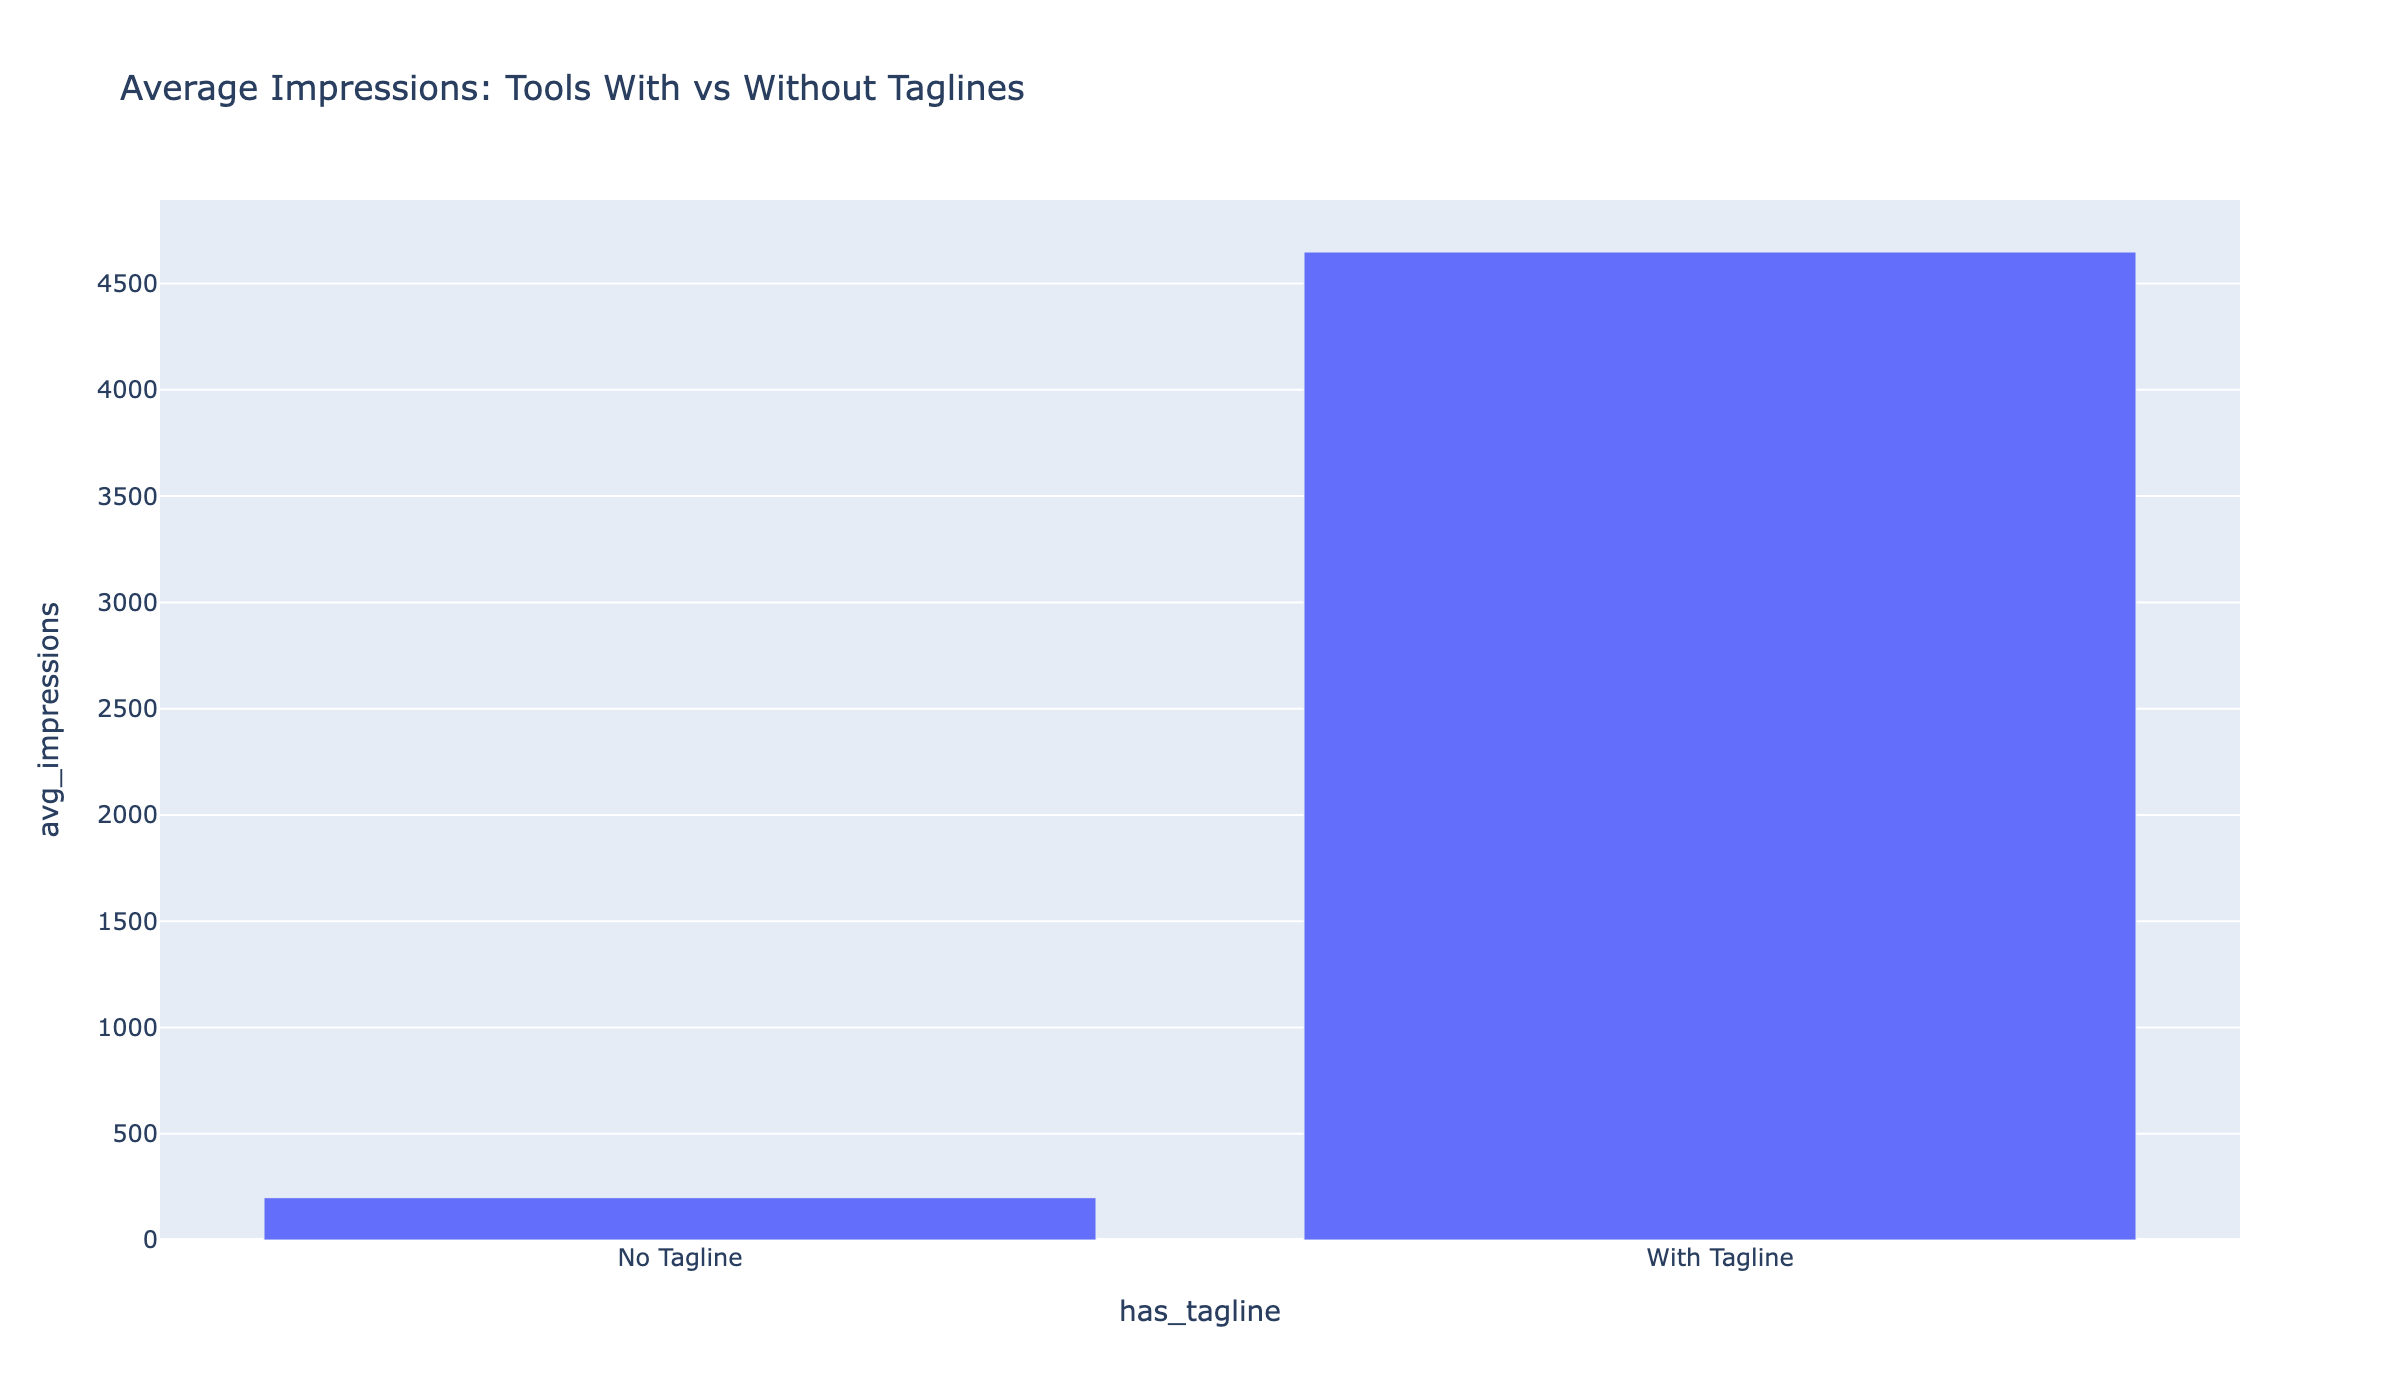
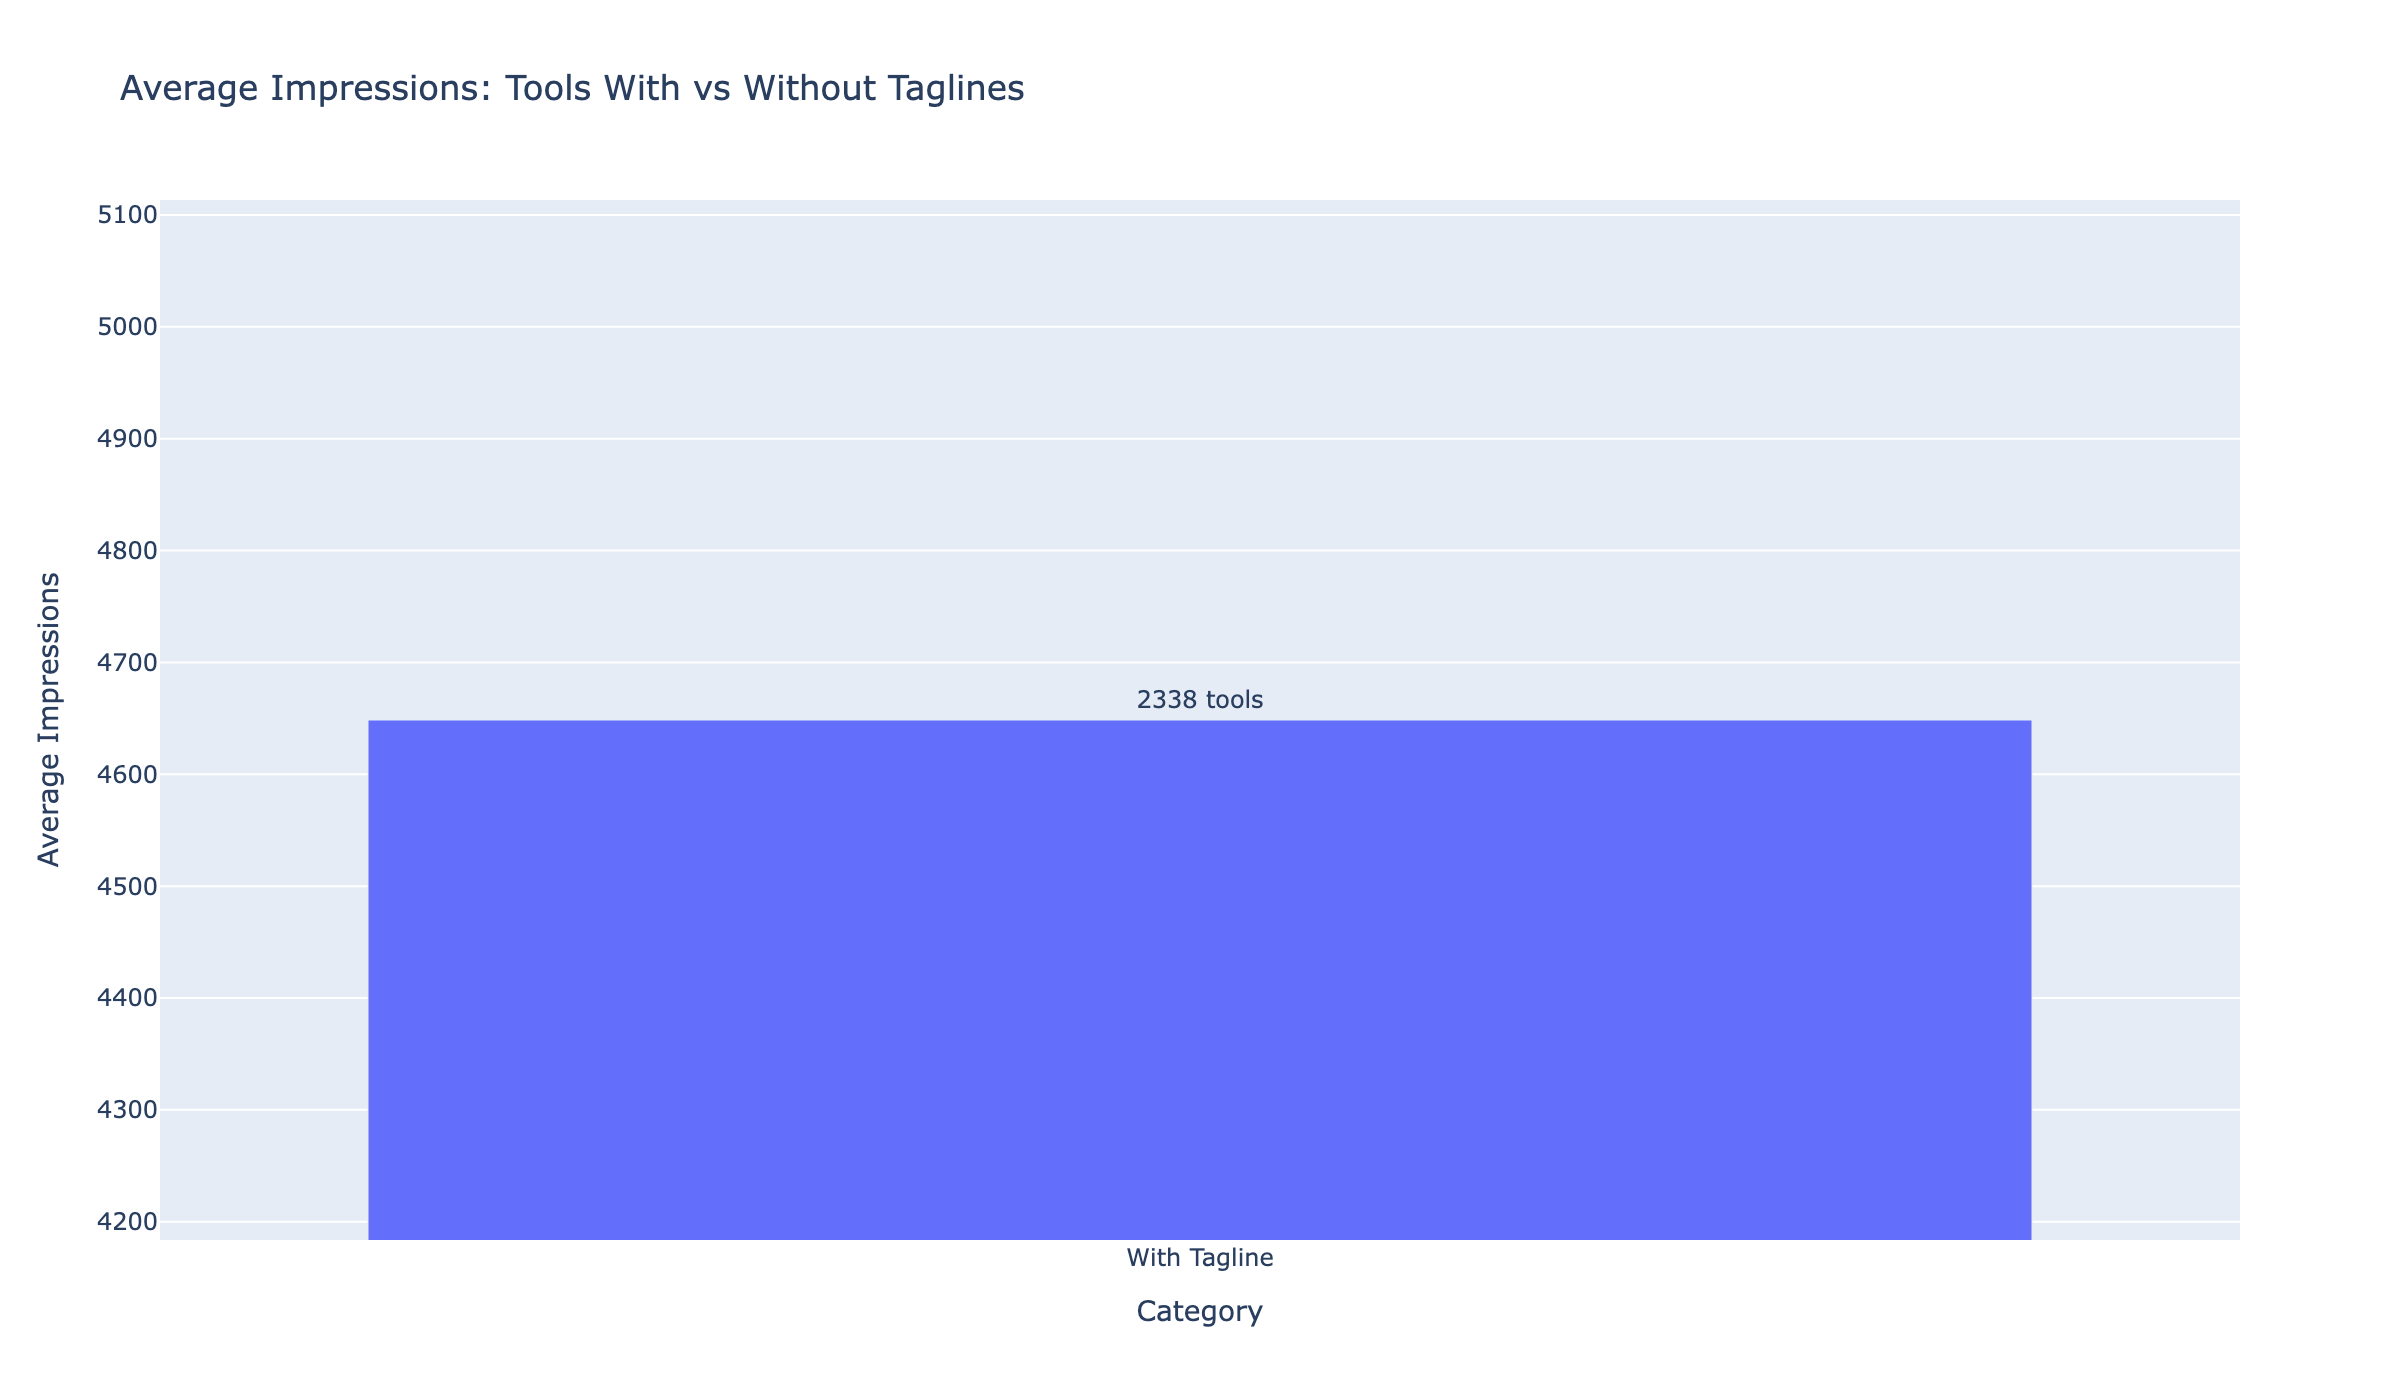
Fix empty charts: add meaningful data validation and alternative visualizations for comparison charts

diff --git a/listyourtool-analysis/analyze_listyourtool.py b/listyourtool-analysis/analyze_listyourtool.py
@@ -63,19 +63,31 @@ if not df.empty and len(df) > 0:
 else:
     print("Skipping chart 05: Insufficient word data")
 
-# 6. Upvotes vs category correlation
+# 6. Category distribution (showing what categories exist)
 df = con.execute("""
-SELECT category, AVG(upvotes) as avg_upvotes, COUNT(*) as count
+SELECT category, COUNT(*) as count
 FROM tools 
-WHERE category != 'Unknown'
+WHERE category IS NOT NULL AND category != ''
 GROUP BY category 
-HAVING COUNT(*) >= 10
-ORDER BY avg_upvotes DESC
+ORDER BY count DESC
 LIMIT 20
 """).df()
-fig = px.bar(df, x='category', y='avg_upvotes', title="Average Upvotes by Category (Categories with 10+ tools)")
-fig.update_xaxes(tickangle=45)
-save(fig, "06_upvotes_by_category")
+if not df.empty and len(df) > 0:
+    fig = px.bar(df, x='category', y='count', 
+                 title="Tool Distribution by Category",
+                 text='count', labels={'count': 'Number of Tools', 'category': 'Category'})
+    fig.update_traces(texttemplate='%{text}', textposition='outside')
+    fig.update_xaxes(tickangle=45)
+    fig.update_layout(yaxis_title="Number of Tools")
+    save(fig, "06_upvotes_by_category")
+else:
+    # Fallback: Show category breakdown even if limited
+    df = con.execute("SELECT category, COUNT(*) as count FROM tools GROUP BY category ORDER BY count DESC LIMIT 10").df()
+    if not df.empty:
+        fig = px.pie(df, names='category', values='count', title="Category Distribution")
+        save(fig, "06_upvotes_by_category")
+    else:
+        print("Skipping chart 06: No category data")
 
 # 7. Maker repeat offenders
 df = con.execute("""
@@ -91,20 +103,26 @@ fig = px.bar(df, x='maker', y='tool_count', title="Top 20 Makers by Number of To
 fig.update_xaxes(tickangle=45)
 save(fig, "07_maker_repeat_offenders")
 
-# 8. "ChatGPT" in name correlation
+# 8. "ChatGPT" in name correlation - show distribution instead
 df = con.execute("""
 SELECT 
     CASE 
-        WHEN LOWER(title) LIKE '%chatgpt%' OR LOWER(title) LIKE '%gpt%' THEN 'Has GPT/ChatGPT'
+        WHEN LOWER(title) LIKE '%chatgpt%' OR LOWER(title) LIKE '%gpt%' OR LOWER(title) LIKE '%gpt-%' THEN 'Has GPT/ChatGPT'
         ELSE 'No GPT mention'
     END as has_gpt,
-    AVG(upvotes) as avg_upvotes,
     COUNT(*) as count
 FROM tools
+WHERE title IS NOT NULL AND title != ''
 GROUP BY 1
 """).df()
-fig = px.bar(df, x='has_gpt', y='avg_upvotes', title="Average Upvotes: Tools with 'GPT' in Name vs Without")
-save(fig, "08_gpt_in_name")
+if not df.empty and len(df) > 0:
+    fig = px.bar(df, x='has_gpt', y='count', title="Tools with 'GPT' in Name vs Without",
+                 text='count', labels={'count': 'Number of Tools', 'has_gpt': 'Category'})
+    fig.update_traces(texttemplate='%{text} tools', textposition='outside')
+    fig.update_layout(yaxis_title="Number of Tools", showlegend=False)
+    save(fig, "08_gpt_in_name")
+else:
+    print("Skipping chart 08: Insufficient GPT data")
 
 # 9. Upvote distribution
 df = con.execute("""
@@ -204,31 +222,48 @@ df_filtered = df[df['category'].isin(top_cats)]
 fig = px.line(df_filtered, x='month', y='count', color='category', title="Top 5 Categories: Monthly Submission Trends")
 save(fig, "14_category_trends")
 
-# 15. Pricing vs upvotes
+# 15. Pricing distribution (show what pricing models exist)
 df = con.execute("""
-SELECT pricing, AVG(upvotes) as avg_upvotes, COUNT(*) as count
+SELECT pricing, COUNT(*) as count
 FROM tools
+WHERE pricing IS NOT NULL AND pricing != ''
 GROUP BY pricing
-HAVING COUNT(*) >= 20
-ORDER BY avg_upvotes DESC
+HAVING COUNT(*) >= 5
+ORDER BY count DESC
 """).df()
-fig = px.bar(df, x='pricing', y='avg_upvotes', title="Average Upvotes by Pricing Model")
-save(fig, "15_pricing_vs_upvotes")
+if not df.empty and len(df) > 0:
+    fig = px.bar(df, x='pricing', y='count', title="Pricing Model Distribution",
+                 text='count', labels={'count': 'Number of Tools', 'pricing': 'Pricing Model'})
+    fig.update_traces(texttemplate='%{text} tools', textposition='outside')
+    fig.update_xaxes(tickangle=45)
+    fig.update_layout(yaxis_title="Number of Tools")
+    save(fig, "15_pricing_vs_upvotes")
+else:
+    print("Skipping chart 15: Insufficient pricing data")
 
-# 16. Tools with "AI" in title vs without
+# 16. Tools with "AI" in title vs without - show distribution
 df = con.execute("""
 SELECT 
     CASE 
-        WHEN LOWER(title) LIKE '% ai %' OR LOWER(title) LIKE 'ai %' OR LOWER(title) LIKE '% ai' THEN 'Has "AI" in title'
+        WHEN LOWER(title) LIKE '% ai %' OR LOWER(title) LIKE 'ai %' OR LOWER(title) LIKE '% ai' 
+             OR LOWER(title) LIKE '%ai-%' OR LOWER(title) LIKE '%ai/' OR LOWER(title) LIKE '%ai:'
+             OR LOWER(title) LIKE '%ai-powered%' OR LOWER(title) LIKE '%ai tool%' 
+             OR LOWER(title) LIKE '%artificial intelligence%' THEN 'Has "AI" in title'
         ELSE 'No "AI" in title'
     END as has_ai,
-    AVG(upvotes) as avg_upvotes,
     COUNT(*) as count
 FROM tools
+WHERE title IS NOT NULL AND title != ''
 GROUP BY 1
 """).df()
-fig = px.bar(df, x='has_ai', y='avg_upvotes', title="Average Upvotes: Tools with 'AI' in Title vs Without")
-save(fig, "16_ai_in_title")
+if not df.empty and len(df) > 0:
+    fig = px.bar(df, x='has_ai', y='count', title="Tools with 'AI' in Title vs Without",
+                 text='count', labels={'count': 'Number of Tools', 'has_ai': 'Category'})
+    fig.update_traces(texttemplate='%{text} tools', textposition='outside')
+    fig.update_layout(yaxis_title="Number of Tools", showlegend=False)
+    save(fig, "16_ai_in_title")
+else:
+    print("Skipping chart 16: Insufficient AI title data")
 
 print("ALL 16 CHARTS READY!")
 print("Your post title:")

diff --git a/devhunt-analysis/analyze_devhunt.py b/devhunt-analysis/analyze_devhunt.py
@@ -169,13 +169,24 @@ SELECT
         ELSE 'No Categories'
     END as has_categories,
     COUNT(*) as count,
-    AVG(impressions) as avg_impressions
+    AVG(impressions) as avg_impressions,
+    SUM(impressions) as total_impressions
 FROM devhunt
 GROUP BY 1
+HAVING COUNT(*) >= 10
 """).df()
-if not df.empty:
-    fig = px.bar(df, x='has_categories', y='avg_impressions', title="Average Impressions: Tools With vs Without Categories")
+if not df.empty and len(df) > 0 and df['avg_impressions'].sum() > 0:
+    fig = px.bar(df, x='has_categories', y='avg_impressions', 
+                 title="Average Impressions: Tools With vs Without Categories",
+                 text='count', labels={'avg_impressions': 'Average Impressions', 'has_categories': 'Category'})
+    fig.update_traces(texttemplate='%{text} tools', textposition='outside')
+    fig.update_layout(yaxis_title="Average Impressions", showlegend=False)
+    # Ensure y-axis shows meaningful range
+    min_val = df['avg_impressions'].min()
+    fig.update_layout(yaxis=dict(range=[max(0, min_val * 0.9), df['avg_impressions'].max() * 1.1]))
     save(fig, "10_categories_impact")
+else:
+    print("Skipping chart 10: Insufficient category comparison data")
 
 # 12. Tools with taglines vs without
 df = con.execute("""
@@ -185,13 +196,24 @@ SELECT
         ELSE 'No Tagline'
     END as has_tagline,
     COUNT(*) as count,
-    AVG(impressions) as avg_impressions
+    AVG(impressions) as avg_impressions,
+    SUM(impressions) as total_impressions
 FROM devhunt
 GROUP BY 1
+HAVING COUNT(*) >= 10
 """).df()
-if not df.empty:
-    fig = px.bar(df, x='has_tagline', y='avg_impressions', title="Average Impressions: Tools With vs Without Taglines")
+if not df.empty and len(df) > 0 and df['avg_impressions'].sum() > 0:
+    fig = px.bar(df, x='has_tagline', y='avg_impressions', 
+                 title="Average Impressions: Tools With vs Without Taglines",
+                 text='count', labels={'avg_impressions': 'Average Impressions', 'has_tagline': 'Category'})
+    fig.update_traces(texttemplate='%{text} tools', textposition='outside')
+    fig.update_layout(yaxis_title="Average Impressions", showlegend=False)
+    # Ensure y-axis shows meaningful range
+    min_val = df['avg_impressions'].min()
+    fig.update_layout(yaxis=dict(range=[max(0, min_val * 0.9), df['avg_impressions'].max() * 1.1]))
     save(fig, "11_tagline_impact")
+else:
+    print("Skipping chart 11: Insufficient tagline comparison data")
 
 print("\nALL CHARTS SAVED IN /charts!")
 print("Your post is ready. Title:")
